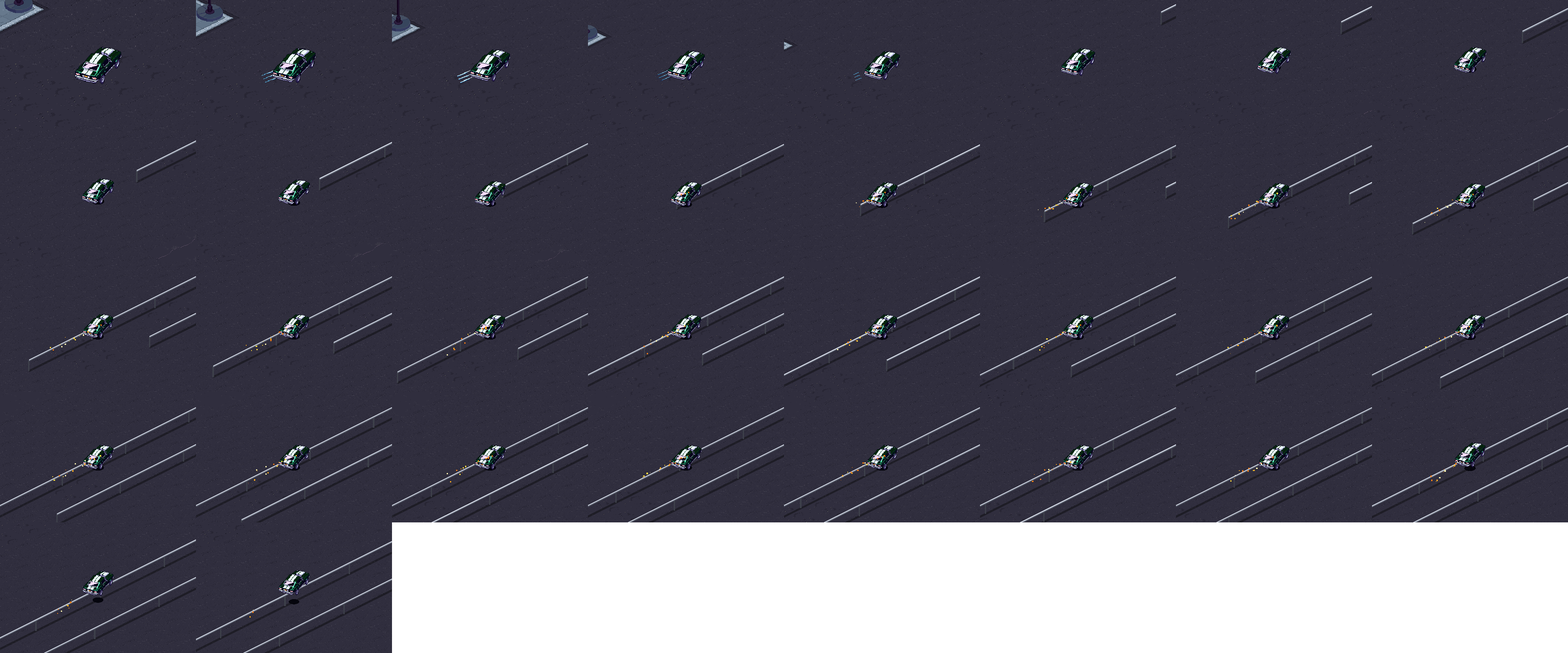
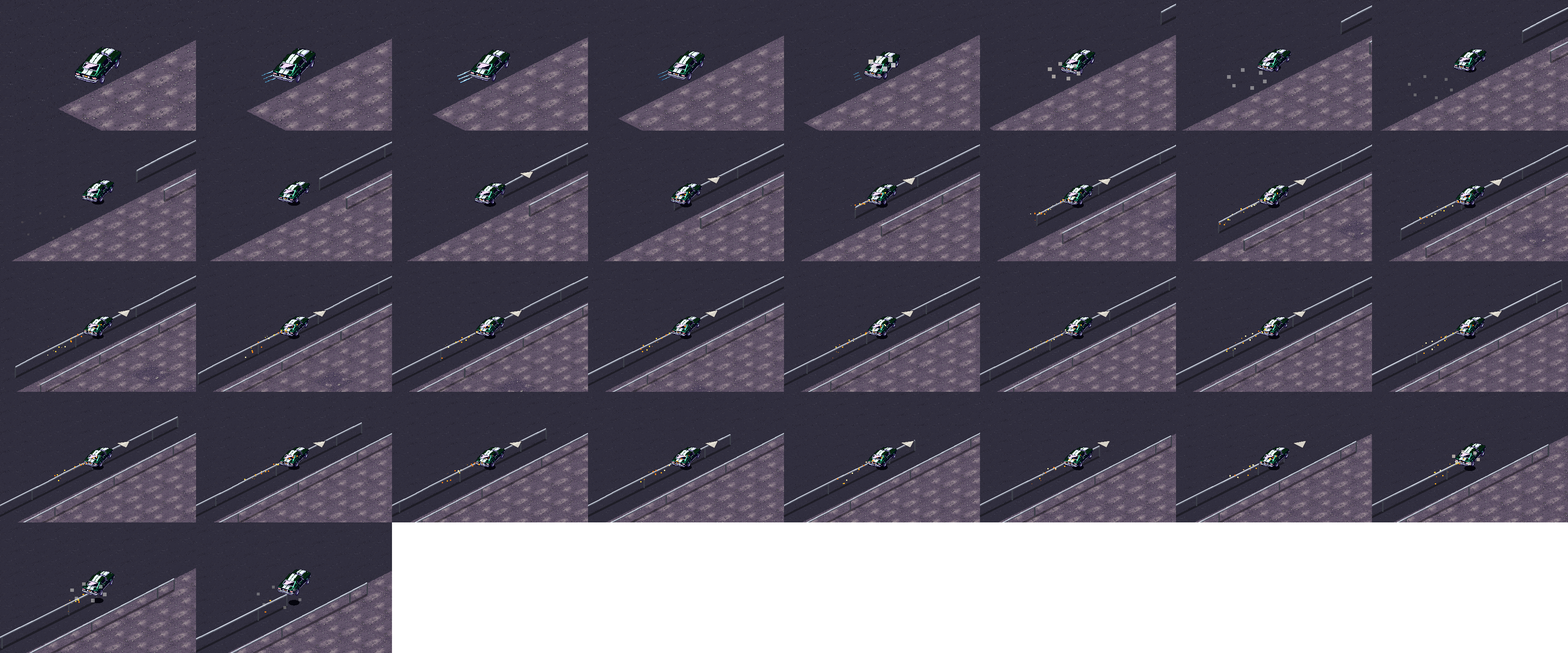
T-555: GRIND! clip re-recorded on Kaiju City (rail-1, Space held, tilt art), fixture start moved
Claude-Session: https://claude.ai/code/session_01N2d996YFpSovFyvGmo19CZ

diff --git a/tasks/T-555-car-tilt-art.md b/tasks/T-555-car-tilt-art.md
@@ -565,3 +565,5 @@ Every call is in art-archive/T-555/pixellab-calls.md and game/art/pixellab-gener
 - Raw outputs: raw/.
 - Briefs: brief-sample.md, brief-sample2.md, brief-full.md.
 - 2026-11-07, flagged-for-review → in-progress: Project Lead: kept at 5/10, noted for the board's playtest as decided; on to QA.
+
+- 2026-11-07, Asset Generation Agent: the GRIND! clip is re-recorded on T-547's Kaiju City map, merged into this branch. Kept take: game/art/tutorial/clips/rail_grind.gif, 34 frames, 2.72 s, 1.43 MB; every take is in art-archive/T-555/clip-takes/. It shows a hop with Space held, the grind on rail-1 with the car tilted and the facing arrow, then the launch on release. The fixture tutorial_clip_rail_grind.gd now starts 12 units south of rail-1, at (18.5, -8), the same route as before. The old start, (5, 6), has no rail on the new map; that was take 02. test_tutorial_clips.gd: 7/7 pass. The Write tool is refused for note files here, so this line went in with --text.
